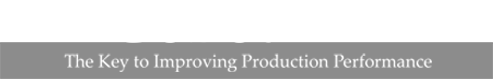
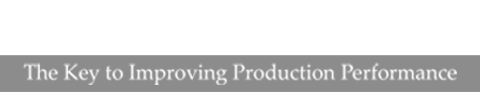
Serveral changes made
logo changed
main page text changed
made more compatible with mobile

Changed region(s): [[0.0312, 0.6835, 0.9688, 0.9367], [0.0, 0.5316, 1.0, 0.6076]]

diff --git a/index.html b/index.html
@@ -26,7 +26,7 @@
       </div>
       <ul>
         <li>
-            <a href="/"><img src="./assets/images/logo.jpg" alt="logo"></a>
+            <a href="/"><img src="./assets/images/logo.png" alt="logo"></a>
         </li>
         <li>
          <a href="/about.html">ABOUT US</a>
@@ -54,14 +54,18 @@
     <div class="carousel-inner">
       <div class="carousel-item active" style="background-image: url('./assets/images/banner-5.jpg');">
         <div class="text-container ban-pag-1">
-          <img src="./assets/images/banner/desktop/CuttingEdge.text.png"alt="">
+
+            <img src="./assets/images/banner/desktop/CuttingEdge.text.png"alt="">
+
         </div>
         
       </div>
       <div class="carousel-item" style="background-image: url('./assets/images/banner-4.jpg');">
         <div class="text-container ban-pag-2">
-            <img src="./assets/images/banner/desktop/ExpandingYour.text.png" alt="">
-
+          <picture>
+              <source media="(max-width: 450px)" srcset="./assets/images/banner/mobile/ExpandingYour.text.png">
+              <img src="./assets/images/banner/desktop/ExpandingYour.text.png" alt="" width="80%">
+          </picture>
           <div class="find-out-more">
             <a href="#">
               <img src="./assets/images/find-out-more.png" alt="">
@@ -72,8 +76,10 @@
       </div>
       <div class="carousel-item banner-1" style="background-image: url('./assets/images/banner-3.jpg');">
         <div class="text-container ban-pag-3">
-            <img src="./assets/images/banner/desktop/GoBot.text.png" alt="">
-
+            <picture>
+                <source media="(max-width: 450px)" srcset="./assets/images/banner/mobile/GoBot.text.png">
+                <img src="./assets/images/banner/desktop/GoBot.text.png" alt="" width="100%">
+            </picture>
           <div class="find-out-more">
               <a href="#">
                 <img src="./assets/images/find-out-more.png" alt="">
@@ -83,7 +89,10 @@
       </div>
       <div class="carousel-item banner-1" style="background-image: url('./assets/images/banner-1.jpg');">
         <div class="text-container ban-pag-4">
-            <img src="./assets/images/banner/desktop/AMVSeries.text.png" alt="">
+            <picture>
+                <source media="(max-width: 450px)" srcset="./assets/images/banner/mobile/AMVSeries.text.png">
+                <img src="./assets/images/banner/desktop/AMVSeries.text.png" alt="" width="100%">
+            </picture>
           <div class="find-out-more">
               <a href="#">
                 <img src="./assets/images/find-out-more.png" alt="">
@@ -93,7 +102,10 @@
       </div>
       <div class="carousel-item banner-2" style="background-image: url('./assets/images/banner-2.jpg');">
         <div class="text-container ban-pag-5">
-            <img src="./assets/images/banner/desktop/VisionSystem.text.png" alt="">
+            <picture>
+                <source media="(max-width: 450px)" srcset="./assets/images/banner/mobile/VisionSystem.text.png">
+                <img src="./assets/images/banner/desktop/VisionSystem.text.png" alt="" width="100%">
+            </picture>
           <div class="find-out-more">
               <a href="#">
                 <img src="./assets/images/find-out-more.png" alt="">

diff --git a/assets/css/common.css b/assets/css/common.css
@@ -75,9 +75,9 @@ nav {
   margin: 0px;
   top: 30px;
   z-index: 30;
-  left: 17px;
+  left: 0px;
   transition: all 1s ease-in-out;
-  transform: scale(1.2);
+  transform: scale(1);
 }
 
 nav ul {
@@ -85,7 +85,13 @@ nav ul {
 }
 
 nav ul li img{
-  width: 175px;
+  width: 100px;
+}
+
+nav ul li:first-child{
+  background: #800000;
+  padding: 10px;
+  text-align: center;
 }
 
 nav ul li:not(:first-child) {
@@ -138,7 +144,7 @@ nav .show-btn img {
 
 @media (max-width: 1000px) {
   nav {
-    left: -195px;
+    left: -175px;
   }
   nav .show-btn {
     opacity: 1;

diff --git a/assets/js/common.js b/assets/js/common.js
@@ -1,6 +1,6 @@
 $(document).ready(function() {
   $(".close-btn").click(function() {
-    $("nav").css({ left: "-195px" });
+    $("nav").css({ left: "-175px" });
     setTimeout(function() {
       $(".show-btn").css({ right: "-30px", opacity: "1" });
     }, 1000);
@@ -9,7 +9,7 @@ $(document).ready(function() {
   $(".show-btn").click(function() {
     $(".show-btn").css({ opacity: "0" });
     setTimeout(function() {
-      $("nav").css({ left: "17px" });
+      $("nav").css({ left: "0px" });
     }, 200);
   });
 });

diff --git a/assets/css/index.css b/assets/css/index.css
@@ -85,14 +85,13 @@
 } */
 
 .find-out-more {
-  margin: 40px auto;
-  position: absolute;
+  margin: 20px auto;
   width: 100%;
-  bottom: 40px;
 }
 
 .find-out-more img {
   position: absolute;
+  width: 140px;
   right: 30px;
 }
 
@@ -169,9 +168,12 @@
     width: 75vw;
   }
 
+  .ban-pag-2{
+    text-align:center;
+  }
+
   .ban-pag-1{
     position: relative;
-    bottom: 100vh;
   }
 
   .find-out-more {

diff --git a/about.html b/about.html
@@ -30,7 +30,7 @@
       </div>
       <ul>
         <li>
-            <a href="/"><img src="./assets/images/logo.jpg" alt="logo"></a>
+            <a href="/"><img src="./assets/images/logo.png" alt="logo"></a>
         </li>
         <li>
          <a href="/about.html" class="active">ABOUT US</a>

diff --git a/contact.html b/contact.html
@@ -30,7 +30,7 @@
       </div>
       <ul>
         <li>
-            <a href="/"><img src="./assets/images/logo.jpg" alt="logo"></a>
+            <a href="/"><img src="./assets/images/logo.png" alt="logo"></a>
         </li>
         <li>
          <a href="/about.html">ABOUT US</a>
